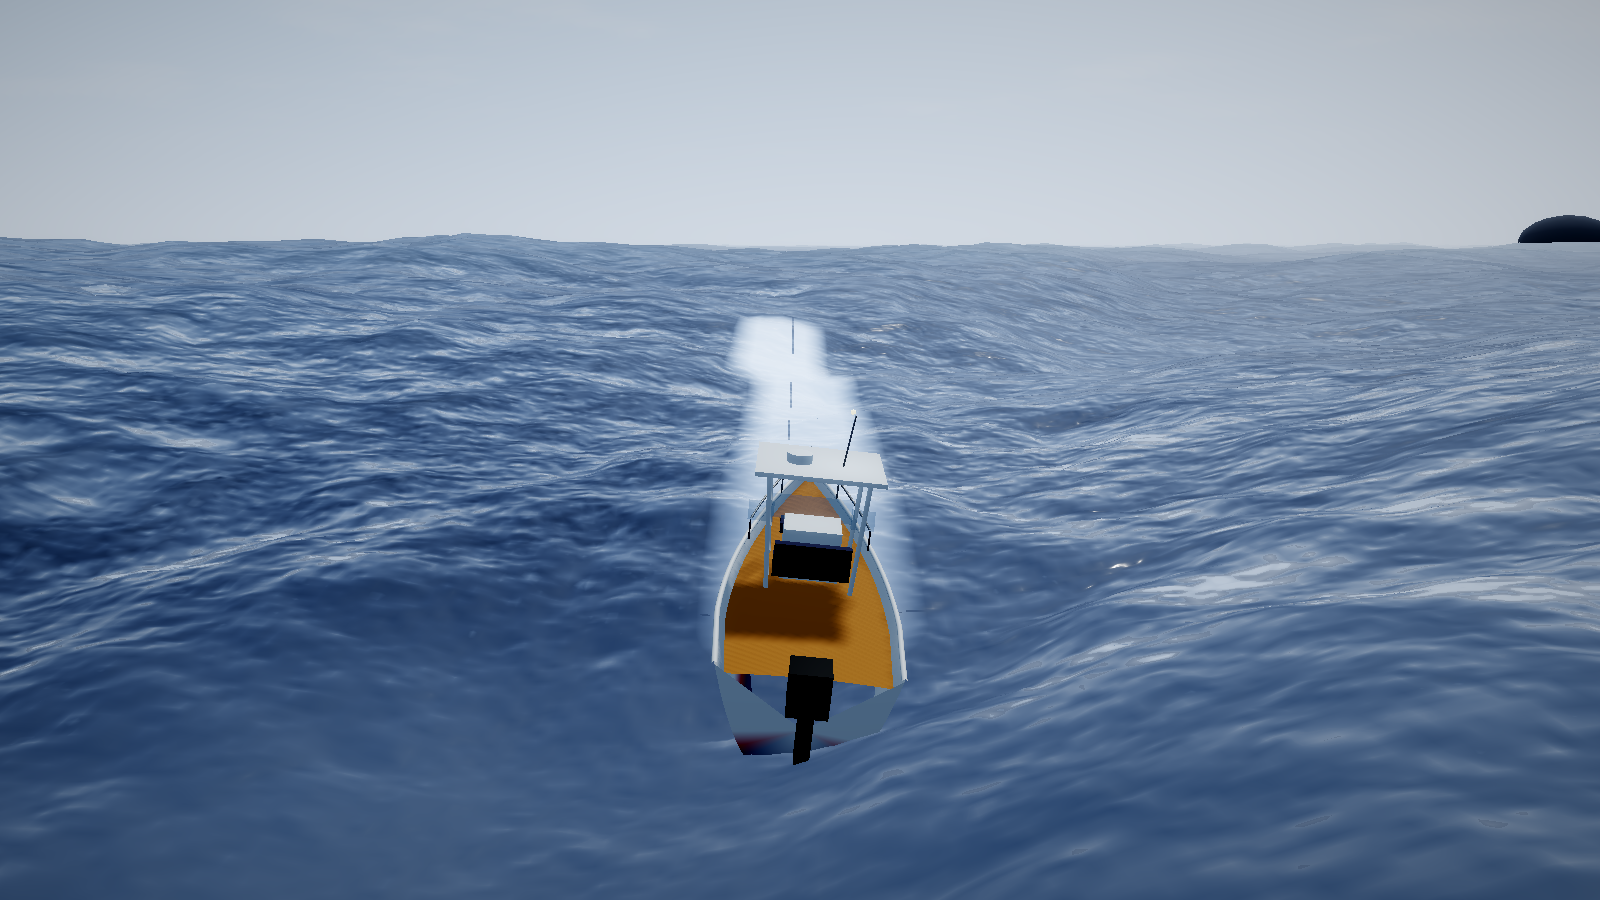
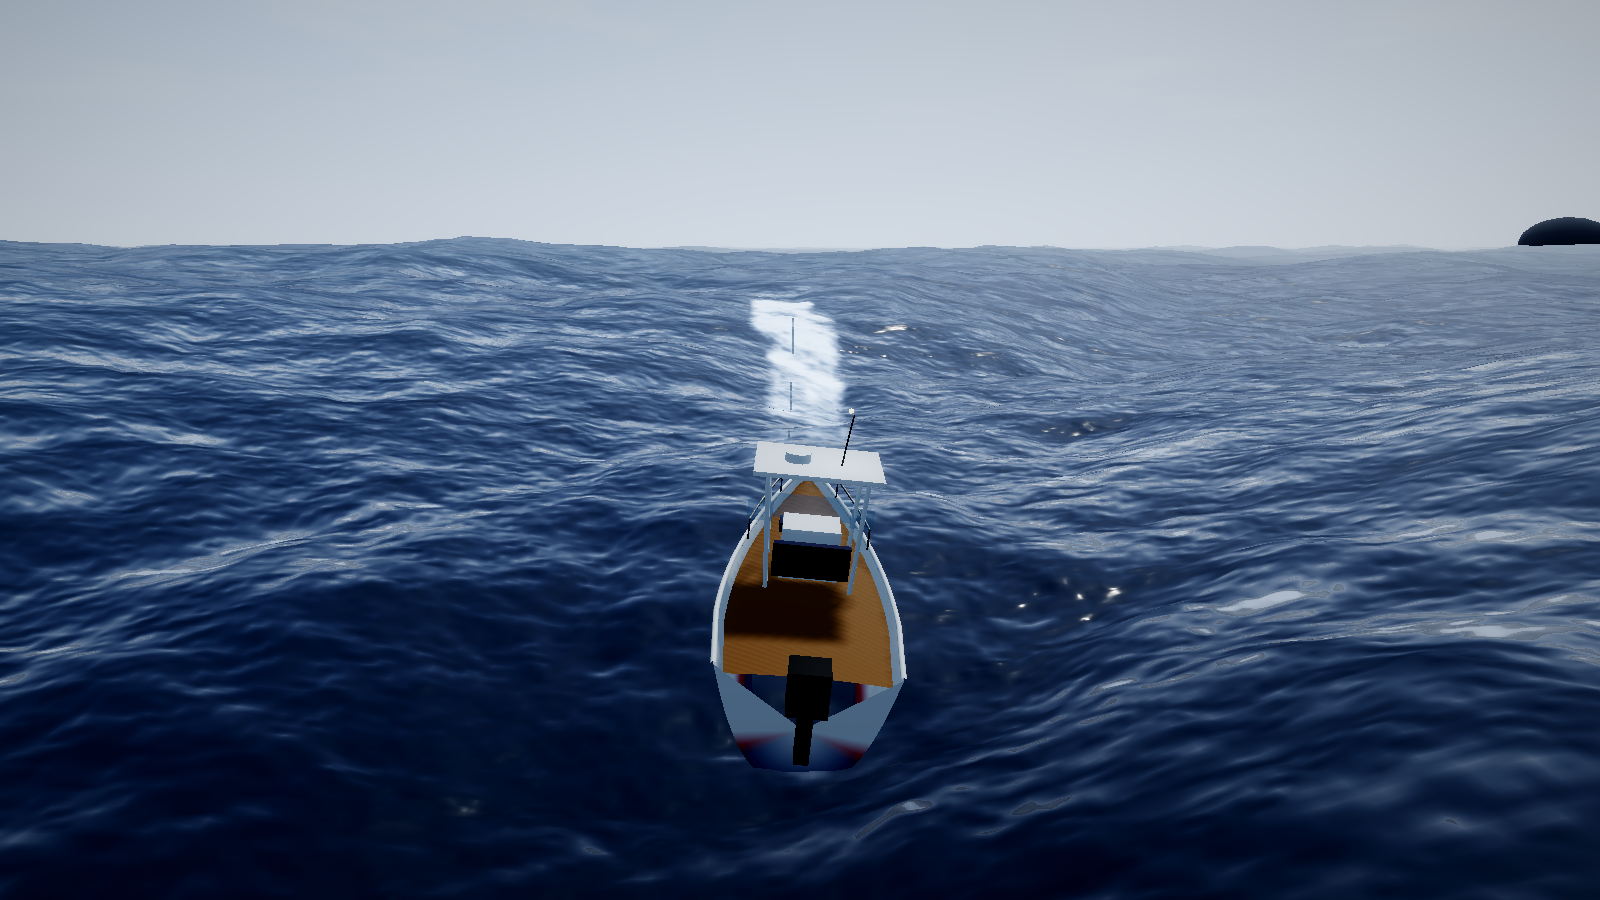
Stop the wake rendering as an opaque white blob
The trail arrived near-saturated (~0.85), so it clamped through the
porosity erosion intact while the FFT foam broke up correctly — the same
mask, but one input saturated and the other did not. The trail is now
shaped before erosion (gamma curve plus its own porosity weighting), so a
wake reads as thin aerated water with a dense core behind the transom
rather than a painted puddle.

Teak also desaturated; it was reading as flat orange plastic.

NOT FIXED: the trail still renders ahead of the boat rather than astern —
clearer than ever in ref/captures/wake-play.png.

98 unit tests.

Claude-Session: https://claude.ai/code/session_0158WT9LTU7e5dt1KetDGE7N

diff --git a/js/ocean/shaders/oceanFragment.js b/js/ocean/shaders/oceanFragment.js
@@ -161,9 +161,17 @@ void main() {
   // Computed before compositing: foam is a rough diffuse film, so it has to
   // extinguish the specular and the sharp sky reflection underneath it. Painted
   // over the top instead, it reads as white gloss on glass.
-  float trail = texture(uFoamTrail, fract(vWorldXZ / uFoamWorld)).r * uFoamTrailStrength;
-  float rawFoam = max(foam * uFoamAmount, trail);
   float porosity = foamPorosity(vWorldXZ, uTime);
+
+  // The wake trail arrives near-saturated, so it survived the erosion below
+  // intact and rendered as an opaque white blob while the FFT foam broke up
+  // correctly. Shaping it first — and harder, since a wake is mostly thin
+  // aerated water with a dense core only right behind the transom — puts both
+  // sources on the same footing.
+  float trailRaw = texture(uFoamTrail, fract(vWorldXZ / uFoamWorld)).r;
+  float trail = pow(trailRaw, 1.25) * uFoamTrailStrength * (0.5 + 0.6 * porosity);
+
+  float rawFoam = max(foam * uFoamAmount, trail);
   // Erode by the porosity field, then harden the edge. Dense centres survive,
   // thin margins break into islands.
   float foamMask = clamp((rawFoam * (0.5 + 0.95 * porosity) - 0.10) * 2.1, 0.0, 1.0);

diff --git a/js/boat/boatMesh.js b/js/boat/boatMesh.js
@@ -65,11 +65,11 @@ export function buildBoatMesh(THREE) {
   });
   const teak = new THREE.MeshStandardMaterial({
     side: THREE.DoubleSide,
-    color: 0xc08a4e,
-    roughness: 0.72,
+    color: 0x8d6a45,
+    roughness: 0.58,
     metalness: 0.0,
-    emissive: 0x1a0f06,
-    emissiveIntensity: 0.12,
+    emissive: 0x0d0803,
+    emissiveIntensity: 0.06,
   });
   const gel = new THREE.MeshStandardMaterial({
     color: 0xf2f5f7,

diff --git a/js/ocean/oceanMaterial.js b/js/ocean/oceanMaterial.js
@@ -62,7 +62,7 @@ export function createOceanMaterial(sim) {
 
       uFoamTrail: { value: null },
       uFoamWorld: { value: 480 },
-      uFoamTrailStrength: { value: 0.85 },
+      uFoamTrailStrength: { value: 0.78 },
       uFoamAmount: { value: 0.6 },
 
       // Clear ocean water extinction, per metre. Red dies in ~2 m, blue lasts
